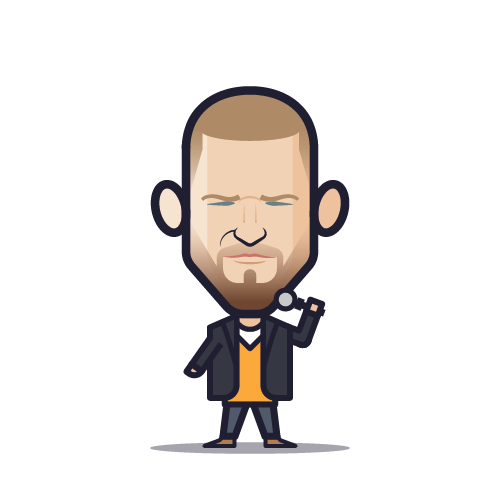
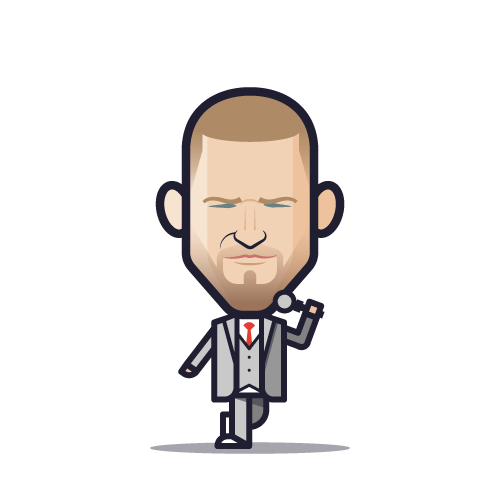
updates
- updated JT loogmoji
- added async to js scripts

diff --git a/php/footer.php b/php/footer.php
@@ -80,26 +80,26 @@ echo '</main>
     <!-- Bootstrap core JavaScript
     ================================================== -->
     <!-- Placed at the end of the document so the pages load faster -->
-    <script src="./js/jquery.js"></script>
-    <script src="./js/bootstrap.min.js"></script>
-    <script src="./js/zoom.min.js"></script>
-    <script src="./js/validate.js"></script>
-    <script src="./js/bootstrapvalidator.js"></script>
-    <script src="./js/flickity.pkgd.min.js"></script>
-    <script src="./js/scrollreveal.js"></script>
-    <script src="./js/blazy.min.js"></script>
-    <script src="./js/loogart.js"></script>
-        <script>
+    <script async src="./js/jquery.js"></script>
+    <script async src="./js/bootstrap.min.js"></script>
+    <script async src="./js/zoom.min.js"></script>
+    <script async src="./js/validate.js"></script>
+    <script async src="./js/bootstrapvalidator.js"></script>
+    <script async src="./js/flickity.pkgd.min.js"></script>
+    <script async src="./js/scrollreveal.js"></script>
+    <script async src="./js/blazy.min.js"></script>
+    <script async src="./js/loogart.js"></script>
+        <script async>
         if (window.location.href.indexOf("#thankyou") > -1) {
             $("#thankyou").modal("show");
         };
     </script>
-    <script>
+    <script async>
         if (window.location.href.indexOf("#errorPopup") > -1) {
             $("#errorPopup").modal("show");
         }
     </script>
-    <script type="text/javascript">
+    <script async>
     $("#thankyou").modal("show") {
     fbq("track", "SubmitMessage"
     );
